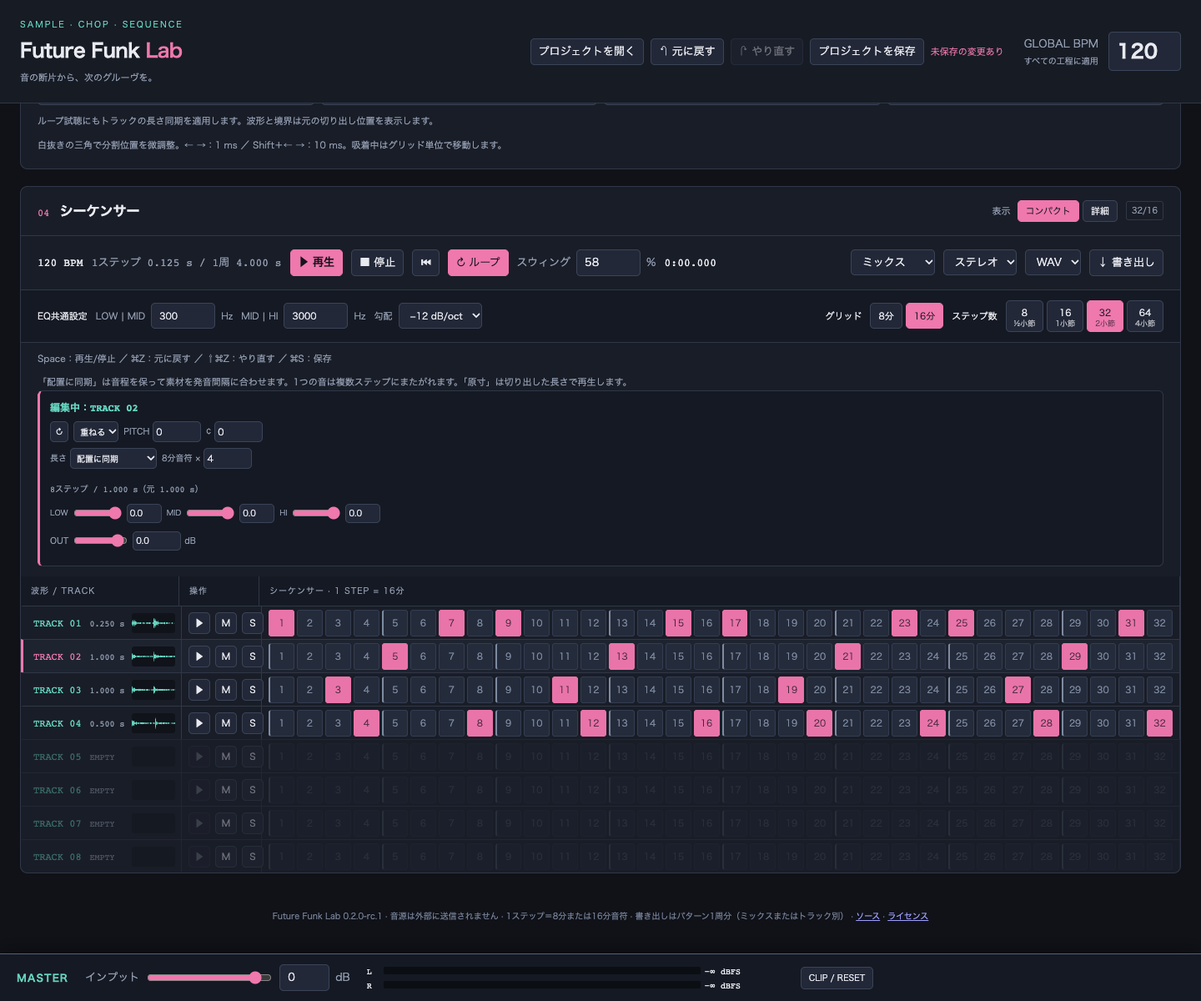
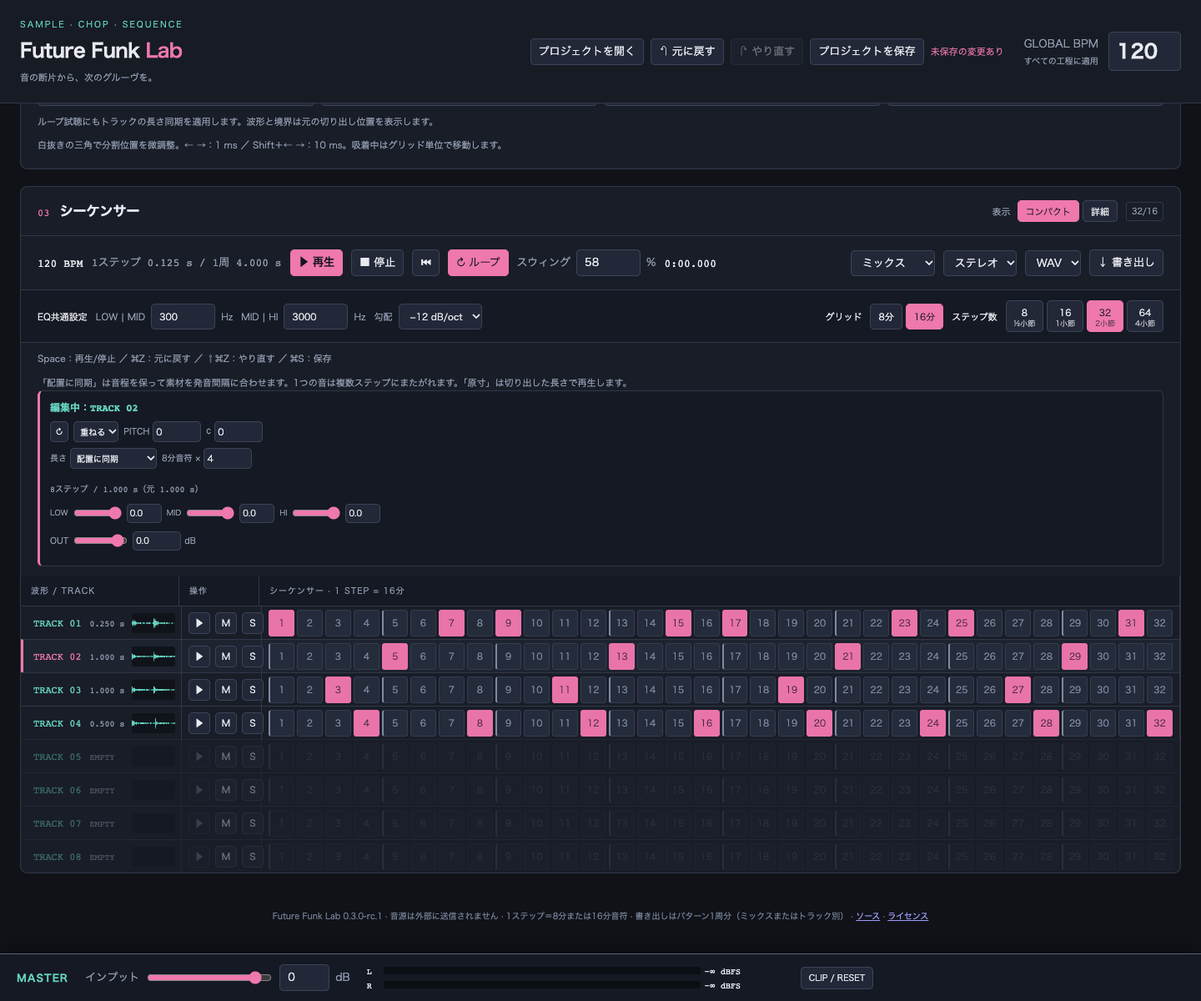
Switch between chopping and separation with tabs
Separation only exports and hands nothing to the chop, yet it sat
between sampling and chopping, a screen of scrolling away. Below
sampling, tabs now switch between chop-to-sequencer and separation.
Switching only changes what is shown; playback keeps going, and the
choice is remembered in localStorage.

Closes #15

diff --git a/index.html b/index.html
@@ -16,14 +16,19 @@
 <div class="range-display"><div class="row"><label>開始 <input id="range-start" type="number" min="0" value="0" step="0.001">秒</label><label>終了 <input id="range-end" type="number" min="0" value="0" step="0.001">秒</label><output id="range-length">0.000 s</output></div><button id="sample" class="primary" data-needs-source>範囲を指定してサンプリング →</button></div>
 <div class="row loop-calibration"><label>選択範囲の拍数 <input id="loop-beats" type="number" min="0.5" max="4096" step="0.5" value="4"></label><button id="calibrate-loop-bpm" data-needs-source>この範囲からBPMを合わせる</button><span class="hint">1拍＝4分音符。範囲の始点から終点までの拍数を指定します。</span></div><p class="hint">WAV・AIFF・MP3・AAC(M4A)・FLAC・Opusに対応。範囲はBPM変換後の音源上で指定します。録音・音源処理はこの端末内で行います。</p>
 </div></section>
-<section class="section" id="separation"><div class="section-head"><div class="section-title"><span class="section-number">02</span><h2>音声分離</h2><span class="badge">オプション機能</span></div><span class="muted">MID + FILTER</span></div><div class="section-body"><div class="parts" id="parts"></div><p class="hint">簡易分離：センター成分にフィルターをかけます。他の楽器も混ざります。分離音源は書き出し専用で、チョップには引き継ぎません。</p></div></section>
-<section class="section" id="chop"><div class="section-head"><div class="section-title"><span class="section-number">03</span><h2>チョップ</h2></div><span class="badge">SLICE</span></div><div class="section-body"><div class="row"><label>分割数 <select id="chop-count"><option>2</option><option>3</option><option selected>4</option><option>5</option><option>6</option><option>7</option><option>8</option></select></label><label><input id="snap" type="checkbox">拍に吸着（グリッド）</label><span id="chop-info" class="muted">サンプリング範囲を確定してください</span></div><canvas id="chop-wave" class="wave" tabindex="0" aria-label="チョップ波形。内部マーカーをドラッグ、左右キーで1ms、Shift併用で10ms移動"></canvas><div class="chop-playback"><output id="chop-position" class="mono" aria-live="off">停止中</output><progress id="chop-progress" max="1" value="0" aria-label="チョップ試聴の区間内再生位置"></progress></div><div id="chop-pads" class="chop-pads"></div><p class="hint">ループ試聴にもトラックの長さ同期を適用します。波形と境界は元の切り出し位置を表示します。</p><p class="hint">白抜きの三角で分割位置を微調整。← →：1 ms ／ Shift＋← →：10 ms。吸着中はグリッド単位で移動します。</p></div></section>
-<section class="section" id="sequence"><div class="section-head"><div class="section-title"><span class="section-number">04</span><h2>シーケンサー</h2></div><div class="row"><div class="view-toggle" role="group" aria-label="表示"><span class="muted">表示</span><button id="view-compact" aria-pressed="true">コンパクト</button><button id="view-detail" aria-pressed="false">詳細</button></div><span id="signature" class="badge">16/8</span></div></div>
+<div class="section-tabs" role="tablist" aria-label="作業"><button id="tab-chop" role="tab" aria-selected="true" aria-controls="panel-chop">チョップ → シーケンサー</button><button id="tab-separation" role="tab" aria-selected="false" aria-controls="panel-separation" tabindex="-1">音声分離</button></div>
+<div id="panel-chop" role="tabpanel" aria-labelledby="tab-chop">
+<section class="section" id="chop"><div class="section-head"><div class="section-title"><span class="section-number">02</span><h2>チョップ</h2></div><span class="badge">SLICE</span></div><div class="section-body"><div class="row"><label>分割数 <select id="chop-count"><option>2</option><option>3</option><option selected>4</option><option>5</option><option>6</option><option>7</option><option>8</option></select></label><label><input id="snap" type="checkbox">拍に吸着（グリッド）</label><span id="chop-info" class="muted">サンプリング範囲を確定してください</span></div><canvas id="chop-wave" class="wave" tabindex="0" aria-label="チョップ波形。内部マーカーをドラッグ、左右キーで1ms、Shift併用で10ms移動"></canvas><div class="chop-playback"><output id="chop-position" class="mono" aria-live="off">停止中</output><progress id="chop-progress" max="1" value="0" aria-label="チョップ試聴の区間内再生位置"></progress></div><div id="chop-pads" class="chop-pads"></div><p class="hint">ループ試聴にもトラックの長さ同期を適用します。波形と境界は元の切り出し位置を表示します。</p><p class="hint">白抜きの三角で分割位置を微調整。← →：1 ms ／ Shift＋← →：10 ms。吸着中はグリッド単位で移動します。</p></div></section>
+<section class="section" id="sequence"><div class="section-head"><div class="section-title"><span class="section-number">03</span><h2>シーケンサー</h2></div><div class="row"><div class="view-toggle" role="group" aria-label="表示"><span class="muted">表示</span><button id="view-compact" aria-pressed="true">コンパクト</button><button id="view-detail" aria-pressed="false">詳細</button></div><span id="signature" class="badge">16/8</span></div></div>
 <div class="sequence-tools"><div class="row"><span class="mono"><span id="sequence-bpm">120</span> BPM</span><span id="pattern-length" class="muted mono">1ステップ 0.250 s / 1周 4.000 s</span><button id="seq-play" class="primary" data-needs-chop title="Space">▶ 再生</button><button id="seq-stop">■ 停止</button><button id="seq-rewind" aria-label="先頭へ戻る">⏮</button><button id="seq-loop" aria-pressed="true">↻ ループ</button><label title="選んでいるグリッドの裏のステップを遅らせます。50%でずれなし">スウィング <input id="swing" type="number" min="50" max="75" step="1" value="50" aria-label="スウィング %">%</label><output id="transport-time">0:00.000</output><div class="grow"></div><select id="export-target" aria-label="書き出す内容"><option value="mix">ミックス</option><option value="stems">トラック別</option></select><select id="export-channels" aria-label="書き出しチャンネル"><option value="2">ステレオ</option><option value="1">モノ</option></select><select id="export-format" aria-label="書き出し形式"><option value="wav">WAV</option><option value="mp3">MP3</option></select><button id="export" data-needs-chop>↓ 書き出し</button></div></div>
 <div class="eq-settings row"><span>EQ共通設定</span><label>LOW | MID <input id="eq-low" type="number" min="200" max="500" value="300">Hz</label><label>MID | HI <input id="eq-high" type="number" min="2000" max="4000" value="3000">Hz</label><label>勾配 <select id="eq-slope"><option value="6">−6 dB/oct</option><option value="12" selected>−12 dB/oct</option><option value="24">−24 dB/oct</option></select></label><div class="grow"></div><span>グリッド</span><div class="step-buttons" role="group" aria-label="グリッド"><button id="grid-8" aria-pressed="true">8分</button><button id="grid-16" aria-pressed="false">16分</button></div><span>ステップ数</span><div id="step-buttons" class="step-buttons"></div></div>
 <div id="grid-confirm" class="grid-confirm hidden" role="alert"><span id="grid-confirm-text"></span><button id="grid-confirm-yes" class="primary">消して8分にする</button><button id="grid-confirm-no">やめる</button></div><p id="shortcut-hint" class="hint">Space：再生/停止 ／ ⌘Z：元に戻す ／ ⇧⌘Z：やり直す ／ ⌘S：保存</p><p class="hint sequence-sync-hint">「配置に同期」は音程を保って素材を発音間隔に合わせます。1つの音は複数ステップにまたがれます。「原寸」は切り出した長さで再生します。</p><div id="track-editor" class="track-editor" role="region" aria-label="選択中のトラックの編集"></div><div class="table-scroll"><div class="sequencer"><div class="seq-header"><div>波形 / TRACK</div><div><span class="detail-only">エディット</span><span class="compact-only">操作</span></div><div>シーケンサー <span class="muted"> · 1 STEP = <span id="step-unit">8分</span></span></div></div><div id="tracks"></div></div></div>
 
 </section>
+</div>
+<div id="panel-separation" role="tabpanel" aria-labelledby="tab-separation" class="hidden">
+<section class="section" id="separation"><div class="section-head"><div class="section-title"><h2>音声分離</h2><span class="badge">オプション機能</span></div><span class="muted">MID + FILTER</span></div><div class="section-body"><div class="parts" id="parts"></div><p class="hint">簡易分離：センター成分にフィルターをかけます。他の楽器も混ざります。分離音源は書き出し専用で、チョップには引き継ぎません。</p></div></section>
+</div>
 </main><div class="master" id="master-strip" role="region" aria-label="マスタートラック"><strong>MASTER</strong><label>インプット <input id="master" type="range" min="-60" max="6" step="0.5" value="0"><input id="master-number" type="text" value="0" aria-label="マスターゲイン dB" style="width:60px"><span>dB</span></label><div class="meters"><span>L</span><div class="meter"><div class="meter-fill" id="meter-l"></div></div><output id="peak-l">−∞ dBFS</output><span>R</span><div class="meter"><div class="meter-fill" id="meter-r"></div></div><output id="peak-r">−∞ dBFS</output></div><button id="clip-reset" class="clip">CLIP / RESET</button></div>
 <footer>Future Funk Lab /* APP_VERSION */ · 音源は外部に送信されません · 1ステップ＝8分または16分音符 · 書き出しはパターン1周分（ミックスまたはトラック別） · <a href="https://github.com/masa-san-jp/Future-Funk-Lab">ソース</a> · <a href="./THIRD_PARTY_NOTICES.md">ライセンス</a></footer>
 <script>/* APP_JS */</script></body></html>

diff --git a/tests/browser/tabs.spec.js b/tests/browser/tabs.spec.js
@@ -1,0 +1,40 @@
+import { test, expect } from '@playwright/test';
+async function state(page){return page.evaluate(()=>window.futureFunkLab.getState());}
+async function demo(page){await page.goto('/');await page.getByRole('button',{name:'デモ音源を読み込む'}).click();await expect(page.locator('#sample')).toBeEnabled();}
+async function chopped(page){await demo(page);await page.locator('#sample').click();await expect(page.locator('#seq-play')).toBeEnabled();}
+const previewing=(page,key)=>page.evaluate(key=>window.futureFunkLab.engine.preview.has(key),key);
+// Bright pixels mean the waveform was drawn at a real size.
+const drawnPixels=page=>page.locator('#chop-wave').evaluate(canvas=>{if(!canvas.width||!canvas.height)return 0;const data=canvas.getContext('2d').getImageData(0,0,canvas.width,canvas.height).data;let n=0;for(let i=0;i<data.length;i+=4)if(data[i+1]>120)n++;return n;});
+
+test('初期はチョップ→シーケンサーを表示し、切り替えると音声分離と入れ替わる。選んだタブは再読み込み後も残る',async({page})=>{
+  await page.goto('/');
+  await expect(page.locator('#chop')).toBeVisible();await expect(page.locator('#sequence')).toBeVisible();await expect(page.locator('#separation')).toBeHidden();
+  await expect(page.locator('#tab-chop')).toHaveAttribute('aria-selected','true');await expect(page.locator('#chop .section-number')).toHaveText('02');await expect(page.locator('#sequence .section-number')).toHaveText('03');
+  await page.locator('#tab-separation').click();
+  await expect(page.locator('#separation')).toBeVisible();await expect(page.locator('#chop')).toBeHidden();await expect(page.locator('#sequence')).toBeHidden();
+  await expect(page.locator('#tab-separation')).toHaveAttribute('aria-selected','true');await expect(page.locator('#tab-chop')).toHaveAttribute('aria-selected','false');
+  await expect(page.locator('#sampling')).toBeVisible();await expect(page.locator('#master-strip')).toBeVisible();
+  await page.reload();await expect(page.locator('#separation')).toBeVisible();expect((await state(page)).tab).toBe('separation');
+});
+test('切り替えても、シーケンサーと分離パートの再生は止まらない',async({page})=>{
+  await chopped(page);await page.locator('#seq-play').click();await expect.poll(async()=>(await state(page)).playing).toBe(true);
+  await page.locator('#tab-separation').click();await page.waitForTimeout(300);expect((await state(page)).playing).toBe(true);
+  // Space still plays and stops from the other tab.
+  await page.locator('body').click({position:{x:5,y:5}});await page.keyboard.press('Space');await expect.poll(async()=>(await state(page)).playing).toBe(false);
+  await page.locator('[data-part-play="0"]').click();await expect.poll(()=>previewing(page,'part-0')).toBe(true);
+  await page.locator('#tab-chop').click();await page.waitForTimeout(300);expect(await previewing(page,'part-0')).toBe(true);
+});
+test('音声分離を開いたまま曲を読み込んでも、チョップ側に切り替えると波形が描かれている',async({page})=>{
+  await page.goto('/');await page.locator('#tab-separation').click();
+  await page.getByRole('button',{name:'デモ音源を読み込む'}).click();await expect(page.locator('#sample')).toBeEnabled();
+  await page.locator('#sample').click();await expect(page.locator('#seq-play')).toBeEnabled();
+  await page.locator('#tab-chop').click();await expect.poll(()=>drawnPixels(page)).toBeGreaterThan(1000);
+});
+test('←→キーでタブを移れ、タブの切り替えは元に戻すの履歴に入らない',async({page})=>{
+  await chopped(page);const before=(await state(page)).history;
+  await page.locator('#tab-chop').focus();await page.keyboard.press('ArrowRight');
+  await expect(page.locator('#tab-separation')).toBeFocused();await expect(page.locator('#separation')).toBeVisible();
+  await page.keyboard.press('ArrowLeft');await expect(page.locator('#tab-chop')).toBeFocused();await expect(page.locator('#chop')).toBeVisible();
+  await page.locator('#tab-separation').click();await page.locator('#tab-chop').click();await page.waitForTimeout(100);
+  expect((await state(page)).history).toEqual(before);
+});

diff --git a/src/app.js b/src/app.js
@@ -297,6 +297,17 @@ function setTrackView(view){
   trackView=view;try{localStorage.setItem('ffl:view',view);}catch{}
   renderTracks();
 }
+// The separation and chop-to-sequencer work only switch what is shown; playback keeps going.
+let sectionTab='chop';
+try{if(localStorage.getItem('ffl:tab')==='separation')sectionTab='separation';}catch{}
+function setSectionTab(tab,{focus=false}={}){
+  sectionTab=tab;try{localStorage.setItem('ffl:tab',tab);}catch{}
+  for(const name of ['chop','separation']){const selected=name===tab,button=$(`tab-${name}`);button.setAttribute('aria-selected',selected);button.tabIndex=selected?0:-1;$(`panel-${name}`).classList.toggle('hidden',!selected);}
+  if(focus)$(`tab-${tab}`).focus();
+}
+for(const name of ['chop','separation'])$(`tab-${name}`).addEventListener('click',()=>setSectionTab(name));
+$('tab-chop').parentElement.addEventListener('keydown',event=>{if(!['ArrowLeft','ArrowRight'].includes(event.key))return;event.preventDefault();setSectionTab(sectionTab==='chop'?'separation':'chop',{focus:true});});
+setSectionTab(sectionTab);
 bind('view-compact','click',()=>setTrackView('compact'));
 bind('view-detail','click',()=>setTrackView('detail'));
 // Track controls are rendered in two places, so events are delegated from the section.
@@ -806,4 +817,4 @@ function animate(time){
 }requestAnimationFrame(animate);
 window.addEventListener('pagehide',()=>{recordStream?.getTracks().forEach(t=>t.stop());engine.stopAll();worker.terminate();});
 // Read-only diagnostics for integration checks; no audio data leaves this page.
-window.futureFunkLab={getState:()=>({chopPlayback:getChopPlayback(),tempoFollowsSource,sourcePlayhead:engine.preview.has('source')?sourceVoicePosition(engine.preview.get('source')):sourcePlayhead,sourcePlaybackMode:engine.preview.get('source')?.sourceMode??null,sourceTool:sourceWave.tool,sourceZoom:sourceWave.zoom,sourceScroll:sourceWave.scroll,bpm:state.bpm,sourceBpm:state.sourceBpm,duration:duration(),count:state.count,steps:steps(),lengthTicks:state.lengthTicks,resolution:state.resolution,swing:state.swing,points:[...state.points],range:[...state.range],committed:state.committed?[...state.committed]:null,bufferDurations:state.buffers.map(b=>b.duration),syncSpans:state.buffers.map(b=>b.syncSpan),previewDurations:state.buffers.map(b=>b.chopPreview?.duration),pendingTracks:[...pendingPitch.keys()],busy:state.busy,playing:engine.playing,tracks:structuredClone(state.tracks),view:trackView,selectedTrack:state.selectedTrack,history:{undo:Math.max(0,historyIndex),redo:Math.max(0,undoStack.length-1-historyIndex)}}),engine};
+window.futureFunkLab={getState:()=>({chopPlayback:getChopPlayback(),tempoFollowsSource,sourcePlayhead:engine.preview.has('source')?sourceVoicePosition(engine.preview.get('source')):sourcePlayhead,sourcePlaybackMode:engine.preview.get('source')?.sourceMode??null,sourceTool:sourceWave.tool,sourceZoom:sourceWave.zoom,sourceScroll:sourceWave.scroll,bpm:state.bpm,sourceBpm:state.sourceBpm,duration:duration(),count:state.count,steps:steps(),lengthTicks:state.lengthTicks,resolution:state.resolution,swing:state.swing,points:[...state.points],range:[...state.range],committed:state.committed?[...state.committed]:null,bufferDurations:state.buffers.map(b=>b.duration),syncSpans:state.buffers.map(b=>b.syncSpan),previewDurations:state.buffers.map(b=>b.chopPreview?.duration),pendingTracks:[...pendingPitch.keys()],busy:state.busy,playing:engine.playing,tracks:structuredClone(state.tracks),view:trackView,tab:sectionTab,selectedTrack:state.selectedTrack,history:{undo:Math.max(0,historyIndex),redo:Math.max(0,undoStack.length-1-historyIndex)}}),engine};

diff --git a/src/style.css b/src/style.css
@@ -18,6 +18,7 @@
 @media(max-width:900px){header{flex-wrap:wrap}.header-tools{width:100%;justify-content:space-between;gap:12px}.project-tools{flex-wrap:wrap}.dirty{min-width:0}}
 
 .step-buttons button small{display:block;font-size:9px;opacity:.75;line-height:1}.grid-confirm{margin:0 20px 10px;padding:10px 12px;display:flex;gap:10px;align-items:center;flex-wrap:wrap;border:1px solid var(--pink);border-radius:6px;font-size:12px}.grid-confirm span{flex:1;min-width:220px}
+.section-tabs{display:flex;gap:4px;margin:0 0 -1px;padding:0 4px}.section-tabs button{border-radius:7px 7px 0 0;border-bottom-color:var(--line);background:#171b24;color:var(--muted);min-height:36px;padding:7px 18px}.section-tabs button[aria-selected=true]{background:var(--panel);color:var(--text);border-color:var(--line);border-bottom-color:var(--panel);position:relative;z-index:1}
 .view-toggle{display:inline-flex;gap:4px;align-items:center;font-size:11px}.view-toggle span{margin-right:4px}.view-toggle button{min-height:26px;font-size:11px;padding:3px 9px}
 .compact-only{display:none}.sequencer.compact .compact-only{display:inline}.sequencer.compact .detail-only{display:none}
 .track-editor{margin:0 20px 12px;padding:10px 12px;border:1px solid var(--line);border-left:3px solid var(--pink);border-radius:6px;background:#151923}.track-editor-head{font-size:12px;color:var(--mint);margin-bottom:8px;font-family:ui-monospace,SFMono-Regular,monospace}.track-editor .edit-line{flex-wrap:wrap}

diff --git a/docs/20261018-future-funk-lab-sampling-spec-draft.md b/docs/20261018-future-funk-lab-sampling-spec-draft.md
@@ -149,7 +149,7 @@
 
 ## 7. チョップ(確定)
 
-画面は、音声分離の下に置く。
+画面は、音声分離の下に置く。（2026-10-29、#15 で変更：サンプリングの下を［チョップ → シーケンサー］［音声分離］のタブにし、チョップはシーケンサーと同じタブに置く）
 
 ### 7.1 画面構成
 
@@ -370,7 +370,7 @@
 | チョップの再生 | 区間ごとのループ再生ボタンのみ(停止中に押すと再生、再生中に押すと停止) |
 | 分割位置の微調整 | ドラッグと矢印キー。矢印キー1回で1ミリ秒、Shift併用で10ミリ秒 |
 | 拍に吸着 | オンオフを切り替えられる。2026-10-28から、選んでいるグリッド（8分／16分）に揃える（#2） |
-| チョップ画面の位置 | 音声分離の下 |
+| チョップ画面の位置 | 音声分離の下（2026-10-29、#15 でタブに変更。チョップはシーケンサーと同じタブ） |
 | シーケンサーのステップ数 | 4・8・16・32のボタン。全トラック共通。1ステップは8分音符で、それぞれ4/8・8/8・16/8・32/8拍子に対応。サンプルの長さは任意。**2026-10-28変更（#2）**：グリッドを8分（初期値）／16分から選ぶ。16分では8・16・32・64ステップ。どちらも½〜4小節。全トラック共通のスウィング50〜75%を追加 |
 | ステップのバー幅 | 意味なし。幅指定は設けない |
 | トラック単体の再生 | ピッチとEQの確認用。区間の音のみ |
@@ -379,6 +379,7 @@
 | EQ | 3バンド。0〜-∞のカットのみ。クロスオーバー(LOW|MID 200〜500Hz、MID|HI 2000〜4000Hz)と勾配(-6/-12/-24)は全トラック共通 |
 | トラックの出力ボリューム | 初期値0 dB、-∞〜+6 dB |
 | マスターチャンネル | 全出力が流れる。インプットレベル(初期値0 dB、-∞〜+6 dB)とピークメーターを設ける |
+| 作業のタブ（2026-10-29、#15） | 01 サンプリングの下を［チョップ → シーケンサー］［音声分離］のタブで切り替える。番号は 01 サンプリング・02 チョップ・03 シーケンサー。切り替えても再生は止めない |
 | 元に戻す／やり直す（2026-10-28、#9） | ⌘Z／⇧⌘Z（Ctrl+Z／Ctrl+Y）とヘッダーのボタンで、プロジェクトに保存される設定を最大100回まで戻せる。書き出しの設定と表示は対象外。曲の読み込み・プロジェクトを開くと履歴は消える |
 | スペースキー（2026-10-28、#9） | 入力欄にいないときはSpaceで再生/停止（チョップ後はシーケンサー、前は原曲）。ボタンにフォーカスがあってもSpaceではボタンを押さず、Enterで押す |
 | ドラッグ&ドロップと置き換え前の確認（2026-10-28、#9） | 曲と `.json` をページにドロップして読み込める。未保存の変更があるときは、作業を置き換える前に画面内で確認する（保存してから置き換える／置き換える／やめる） |

diff --git a/docs/implementation.md b/docs/implementation.md
@@ -146,3 +146,10 @@
 - 記録：`guarded()` を通る操作が終わったときと、`document` の `input`・`change`・`click`・`pointerup`・`keyup` の直後に、今の設定を最後の履歴と比べて違えば加える。1つの操作の中で起きた変更（イベントの直後と、非同期の処理が終わったとき）は1件にまとめる。スライダー（`input`）と波形（`canvas` 上の `pointerup`・`keyup`）は、同じ要素への変更が1秒以内に続いたら1件にまとめる。クリックと値の確定（`change`）はまとめない。まとめた結果が1つ前と同じになったら、その履歴を消す。新しい操作をしたら、やり直しの履歴は消す。
 - 戻す：`restoreProject()` と共通の `assignSettings()` で設定を入れ、変わったものだけ作り直す。BPMが変わったら `rebuildSource()`、確定範囲・分割位置・分割数が変わったら `rebuildChops()`（確定範囲がなくなればチョップを消す）、それ以外はエンジンへの反映と、`trackBuildKey` が変わったトラックだけの作り直し。再生は、元の操作で止まるもの（BPM・チョップ・グリッド・ステップ数）では止まり、それ以外では鳴り続ける。書き出しの設定は今の値のまま残す。
 - 入力欄にフォーカスしてから `input` が起きていれば、⌘Zはブラウザ標準の入力の取り消しに任せる。値が確定（`change`）したあとや、打っていない入力欄では、アプリの元に戻すになる。処理中は受け付けない。
+
+## 作業のタブ（2026-10-29、#15）
+
+- 「01 サンプリング」の下を、［チョップ → シーケンサー］（`#panel-chop`：02 チョップ・03 シーケンサー）と［音声分離］（`#panel-separation`、番号なし）のタブにした。音声分離は書き出し専用で、チョップに何も渡さない別の作業のため。ヘッダーとマスターは常に表示する。
+- 切り替えは表示だけで、状態は変えない。再生・試聴は止めない。選んだタブは `localStorage` の `ffl:tab` に保存し、プロジェクトと元に戻すの履歴には入れない。
+- WAI-ARIAのタブ（`tablist`・`tab`・`tabpanel`）。タブにフォーカスがあるとき、←→で隣のタブに移って開く。
+- 隠れている間に描いた波形は、`Waveform` の `ResizeObserver` がタブを開いたときに描き直す。

diff --git a/README.md b/README.md
@@ -14,7 +14,7 @@
 
 **シーケンサー** — 4つにチョップした素材を、16分グリッド・2小節（32ステップ）に配置した例です（コンパクト表示）。8トラックを一度に見渡せ、上の編集パネルで選んだトラックの長さ同期・ピッチ・EQ・音量を調整します。
 
-![コンパクト表示のシーケンサー。16分グリッドの32ステップに4トラック分の配置、上に選択中のTRACK 02の編集パネル、再生・スウィング・書き出しの操作、ヘッダーの元に戻す／やり直すボタン](docs/images/sequencer.png)
+![コンパクト表示のシーケンサー。16分グリッドの32ステップに4トラック分の配置、上に選択中のTRACK 02の編集パネル、再生・スウィング・書き出しの操作、ヘッダーの元に戻す／やり直すボタン。サンプリングの下は［チョップ → シーケンサー］［音声分離］のタブ](docs/images/sequencer.png)
 
 ## 起動
 
@@ -55,6 +55,8 @@ npm run dev
 **⌘Z**（Ctrl+Z）で元に戻し、**⇧⌘Z**（Ctrl+Y）でやり直します。右上の「元に戻す」「やり直す」ボタンでも同じです。戻せるのはプロジェクトに保存される設定すべて（範囲・チョップ・BPM・ステップ・グリッド・スウィング・各トラックの設定・EQ・音声分離・マスター）で、書き出しの設定と表示の切り替えは戻しません。スライダーや分割位置の微調整を続けて動かした分は1回で戻ります。数値を打ちかけている途中の⌘Zは、入力欄の取り消しになります。曲を読み込む・プロジェクトを開くと、それまでの履歴は消えます。
 
 マスターの音量・L/Rピークメーター・クリップ表示は、画面下部に常時表示します。
+
+サンプリングの下は、［チョップ → シーケンサー］と［音声分離］のタブで切り替えます。切り替えても再生は止まりません。最後に開いていたタブはブラウザが覚えます。
 
 音声分離はMid成分＋フィルターによる簡易処理です。ボーカル／ベースの完全分離ではありません。分離した音はパートごとに書き出し、チョップには引き継ぎません。
 
